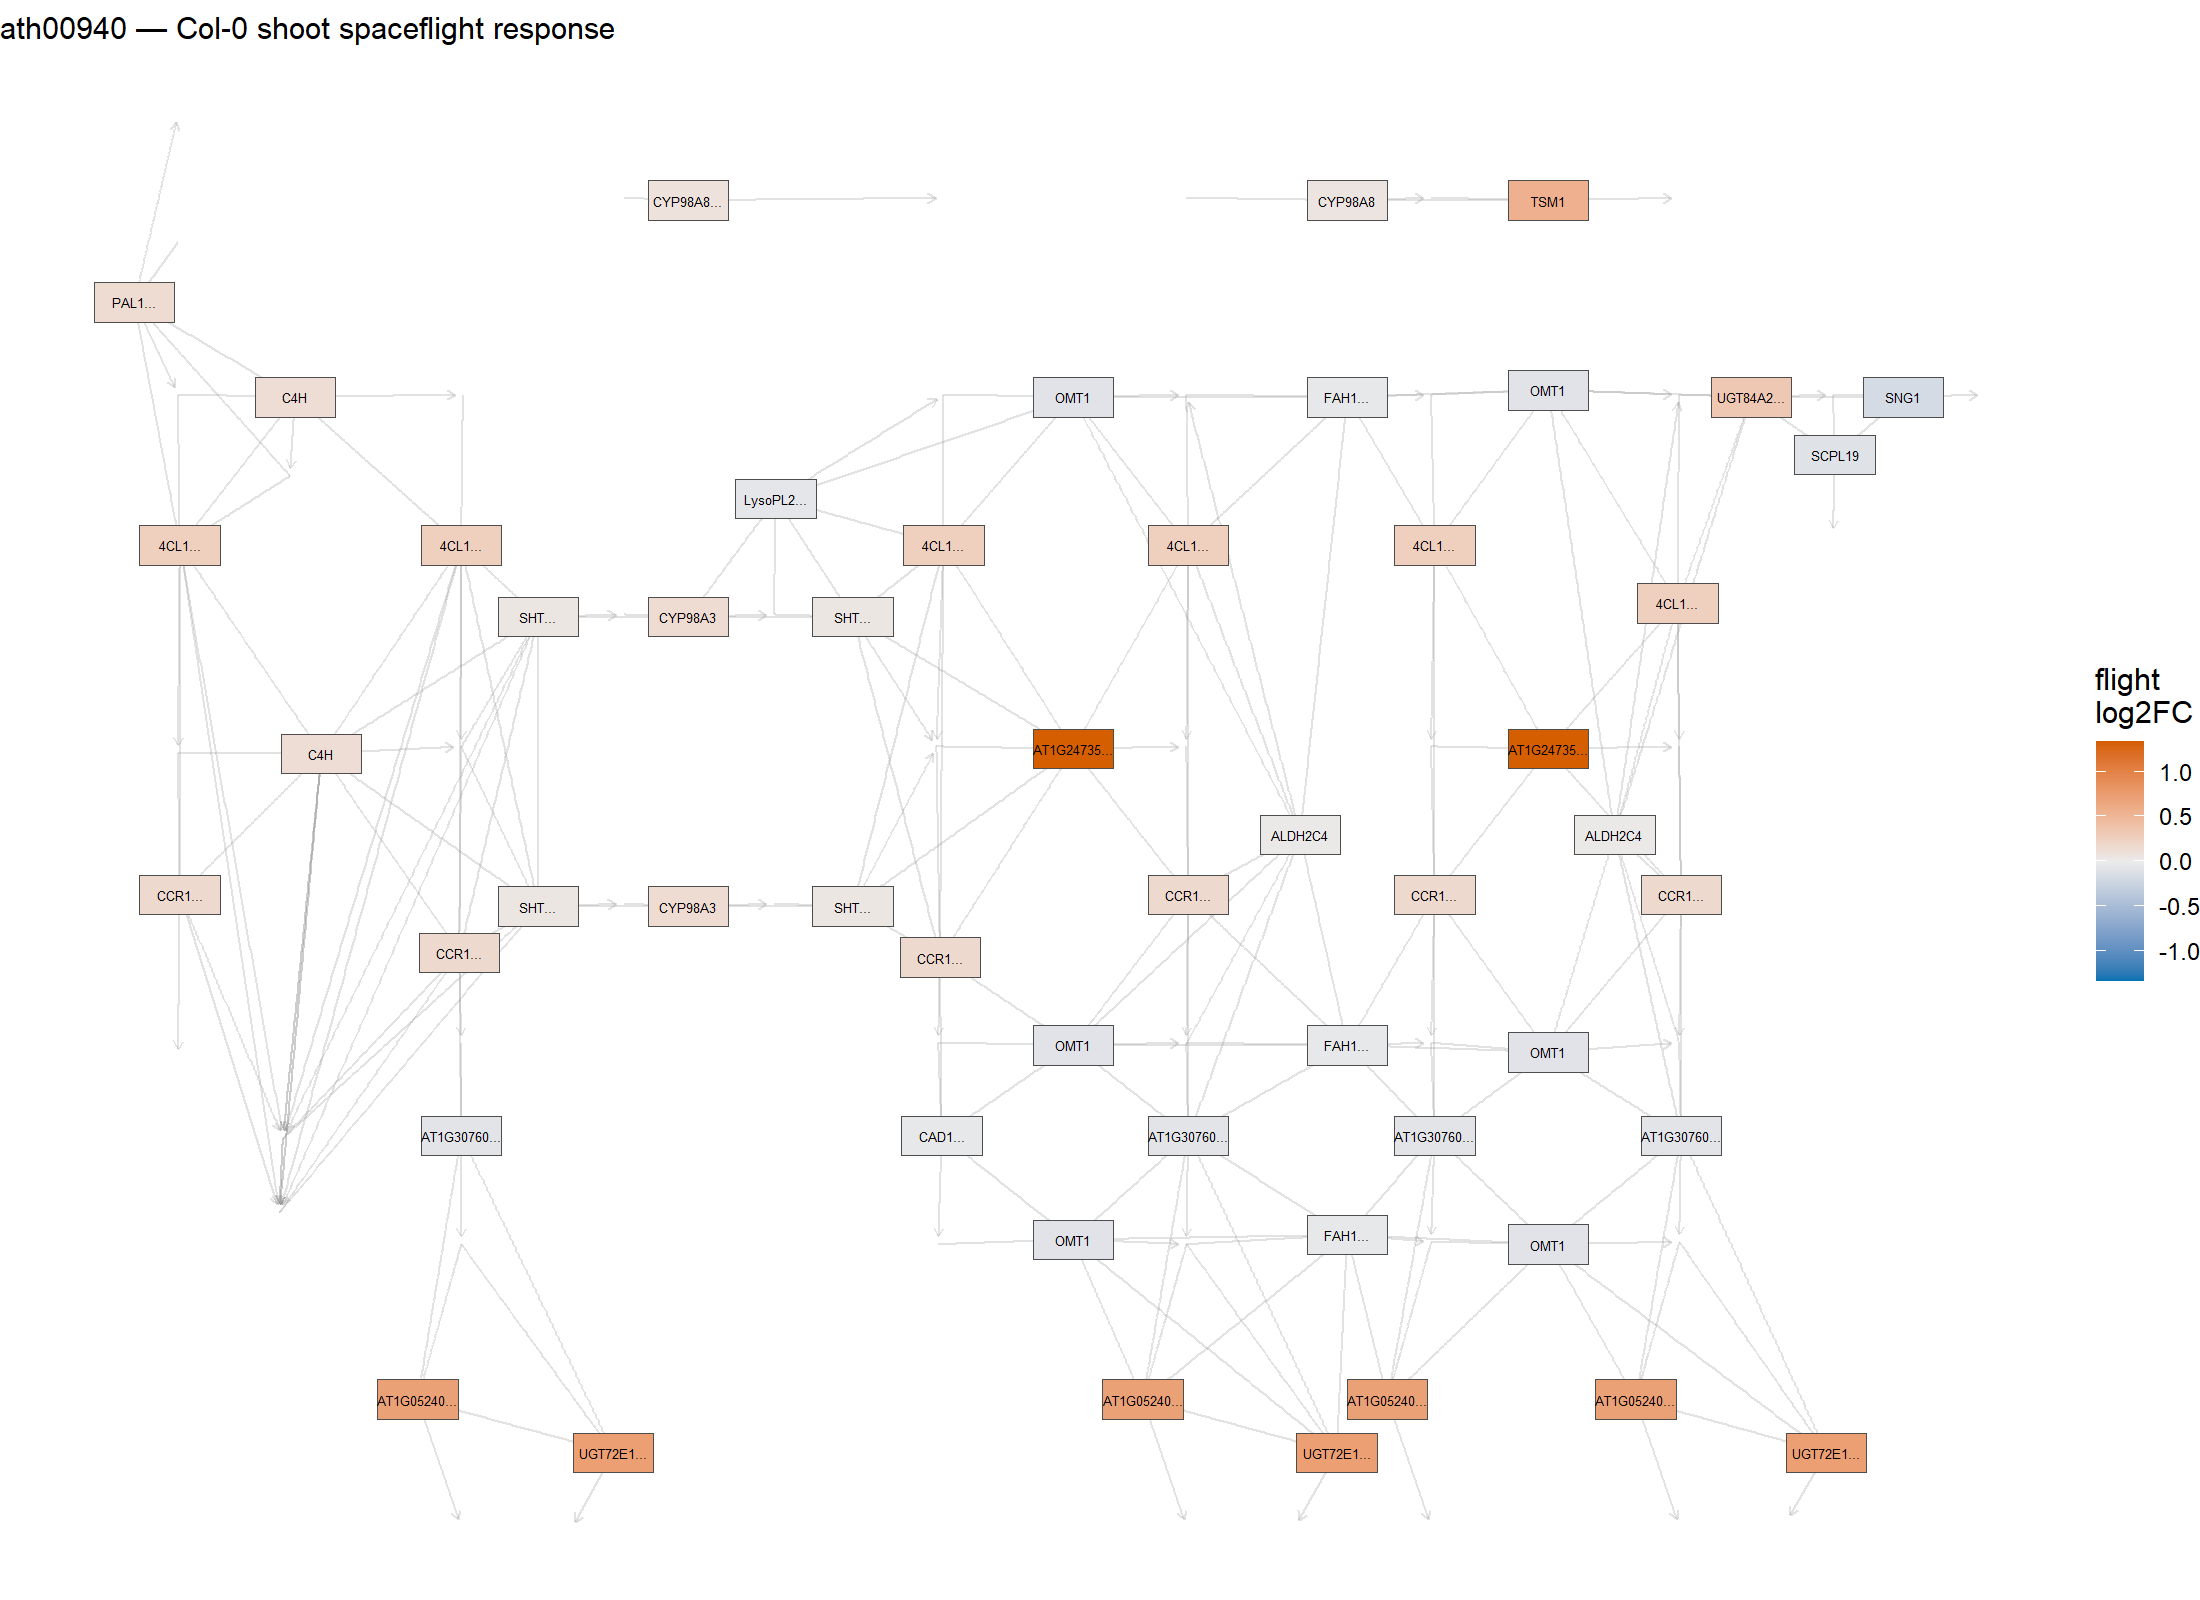
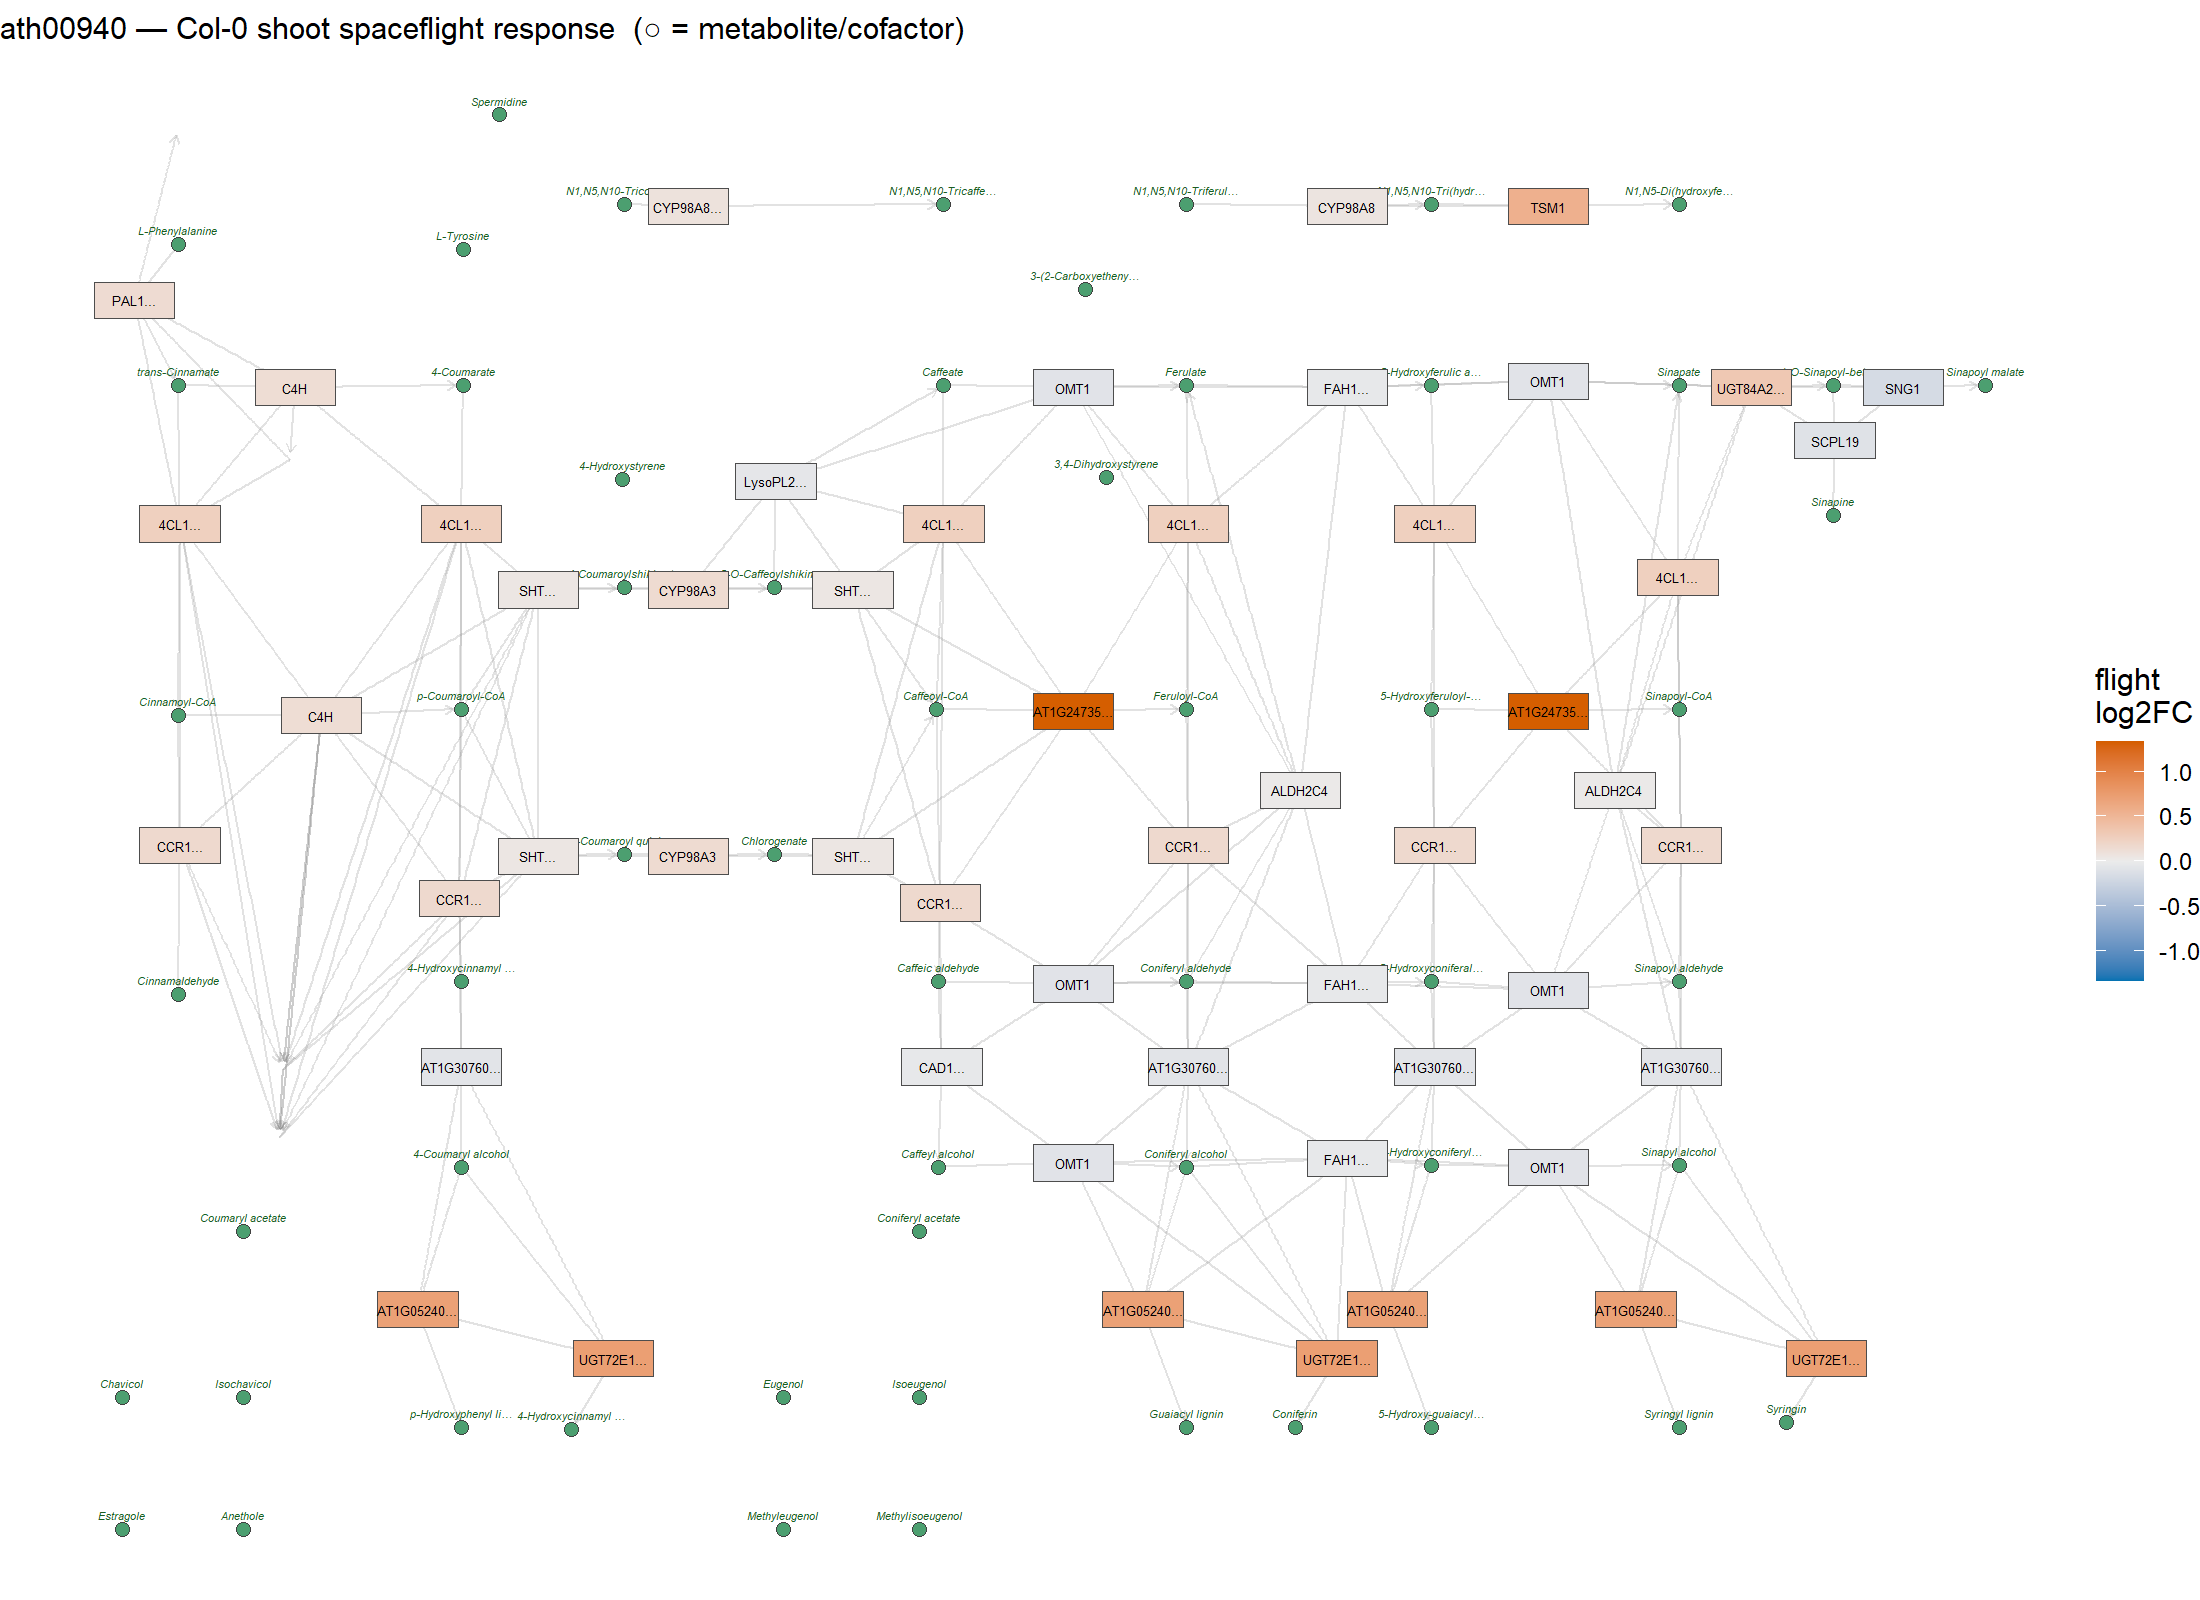
feat: ggKEGG maps now include metabolites & cofactors (named compound nodes)
apex05_ggkegg_pathways.R: draw KEGG compound nodes (metabolites/cofactors) as
green circles labelled with names fetched from the KEGG REST API (batched), in
addition to the flight-log2FC-coloured enzyme rectangles. The glutathione,
phenylpropanoid and hormone-signalling maps now show substrates/products with
their cofactors (NADPH, NADP+, glutathione/GSSG, ascorbate, SAM, CoA, ...) in
context — proper systems-biology diagrams. Re-rendered figJ_* and rebuilt the
website; updated Fig 8 legend.

diff --git a/docs/final-manuscript.html b/docs/final-manuscript.html
@@ -245,9 +245,14 @@ disproportionately attenuated relative to its retained root-shortening.
 grouped into stress axes; flight resembles hypoxia, oxidative/ROS and defence.
 <em>Source:</em> <code>results/ml/figL1_stress_resemblance.png</code>.</p>
 <p><strong>Figure 8 | Systems biology.</strong> (a) KEGG pathway enrichment (glutathione,
-phenylpropanoid, secondary metabolism). (b) ggKEGG phenylpropanoid-biosynthesis
-map with Col-0 shoot flight log₂FC overlay. <em>Source:</em>
-<code>results/ml/figK1_kegg_pathway_enrichment.png</code>, <code>figJ_ath00940_col0_shoot.png</code>.</p>
+phenylpropanoid, secondary metabolism). (b) ggKEGG pathway maps with enzyme nodes
+coloured by flight log₂FC and <strong>metabolite/cofactor nodes (green circles, named —
+e.g. NADPH, NADP⁺, glutathione/GSSG, ascorbate, SAM, coenzyme A)</strong> shown in
+context: phenylpropanoid biosynthesis (Col-0 shoot), glutathione metabolism
+(rbohD shoot), plant hormone signal transduction (Col-0 root). <em>Source:</em>
+<code>results/ml/figK1_kegg_pathway_enrichment.png</code>,
+<code>figJ_ath00940_col0_shoot.png</code>, <code>figJ_ath00480_rbohd_shoot.png</code>,
+<code>figJ_ath04075_col0_root.png</code>.</p>
 <p><strong>Figure S1 | <em>cax2-3</em> exclusion (corrected data).</strong> <em>Source:</em>
 <code>results/ml/figF1_cax2_concordance_fixed.png</code>; <code>docs/cax2_allele_concordance.md</code>.</p>
 <p><strong>Figure S2 | Exploratory peptide ligand–receptor flight-responsiveness.</strong>

diff --git a/manuscript/apex05_FINAL_manuscript.md b/manuscript/apex05_FINAL_manuscript.md
@@ -278,9 +278,14 @@ grouped into stress axes; flight resembles hypoxia, oxidative/ROS and defence.
 *Source:* `results/ml/figL1_stress_resemblance.png`.
 
 **Figure 8 | Systems biology.** (a) KEGG pathway enrichment (glutathione,
-phenylpropanoid, secondary metabolism). (b) ggKEGG phenylpropanoid-biosynthesis
-map with Col-0 shoot flight log₂FC overlay. *Source:*
-`results/ml/figK1_kegg_pathway_enrichment.png`, `figJ_ath00940_col0_shoot.png`.
+phenylpropanoid, secondary metabolism). (b) ggKEGG pathway maps with enzyme nodes
+coloured by flight log₂FC and **metabolite/cofactor nodes (green circles, named —
+e.g. NADPH, NADP⁺, glutathione/GSSG, ascorbate, SAM, coenzyme A)** shown in
+context: phenylpropanoid biosynthesis (Col-0 shoot), glutathione metabolism
+(rbohD shoot), plant hormone signal transduction (Col-0 root). *Source:*
+`results/ml/figK1_kegg_pathway_enrichment.png`,
+`figJ_ath00940_col0_shoot.png`, `figJ_ath00480_rbohd_shoot.png`,
+`figJ_ath04075_col0_root.png`.
 
 **Figure S1 | *cax2-3* exclusion (corrected data).** *Source:*
 `results/ml/figF1_cax2_concordance_fixed.png`; `docs/cax2_allele_concordance.md`.
